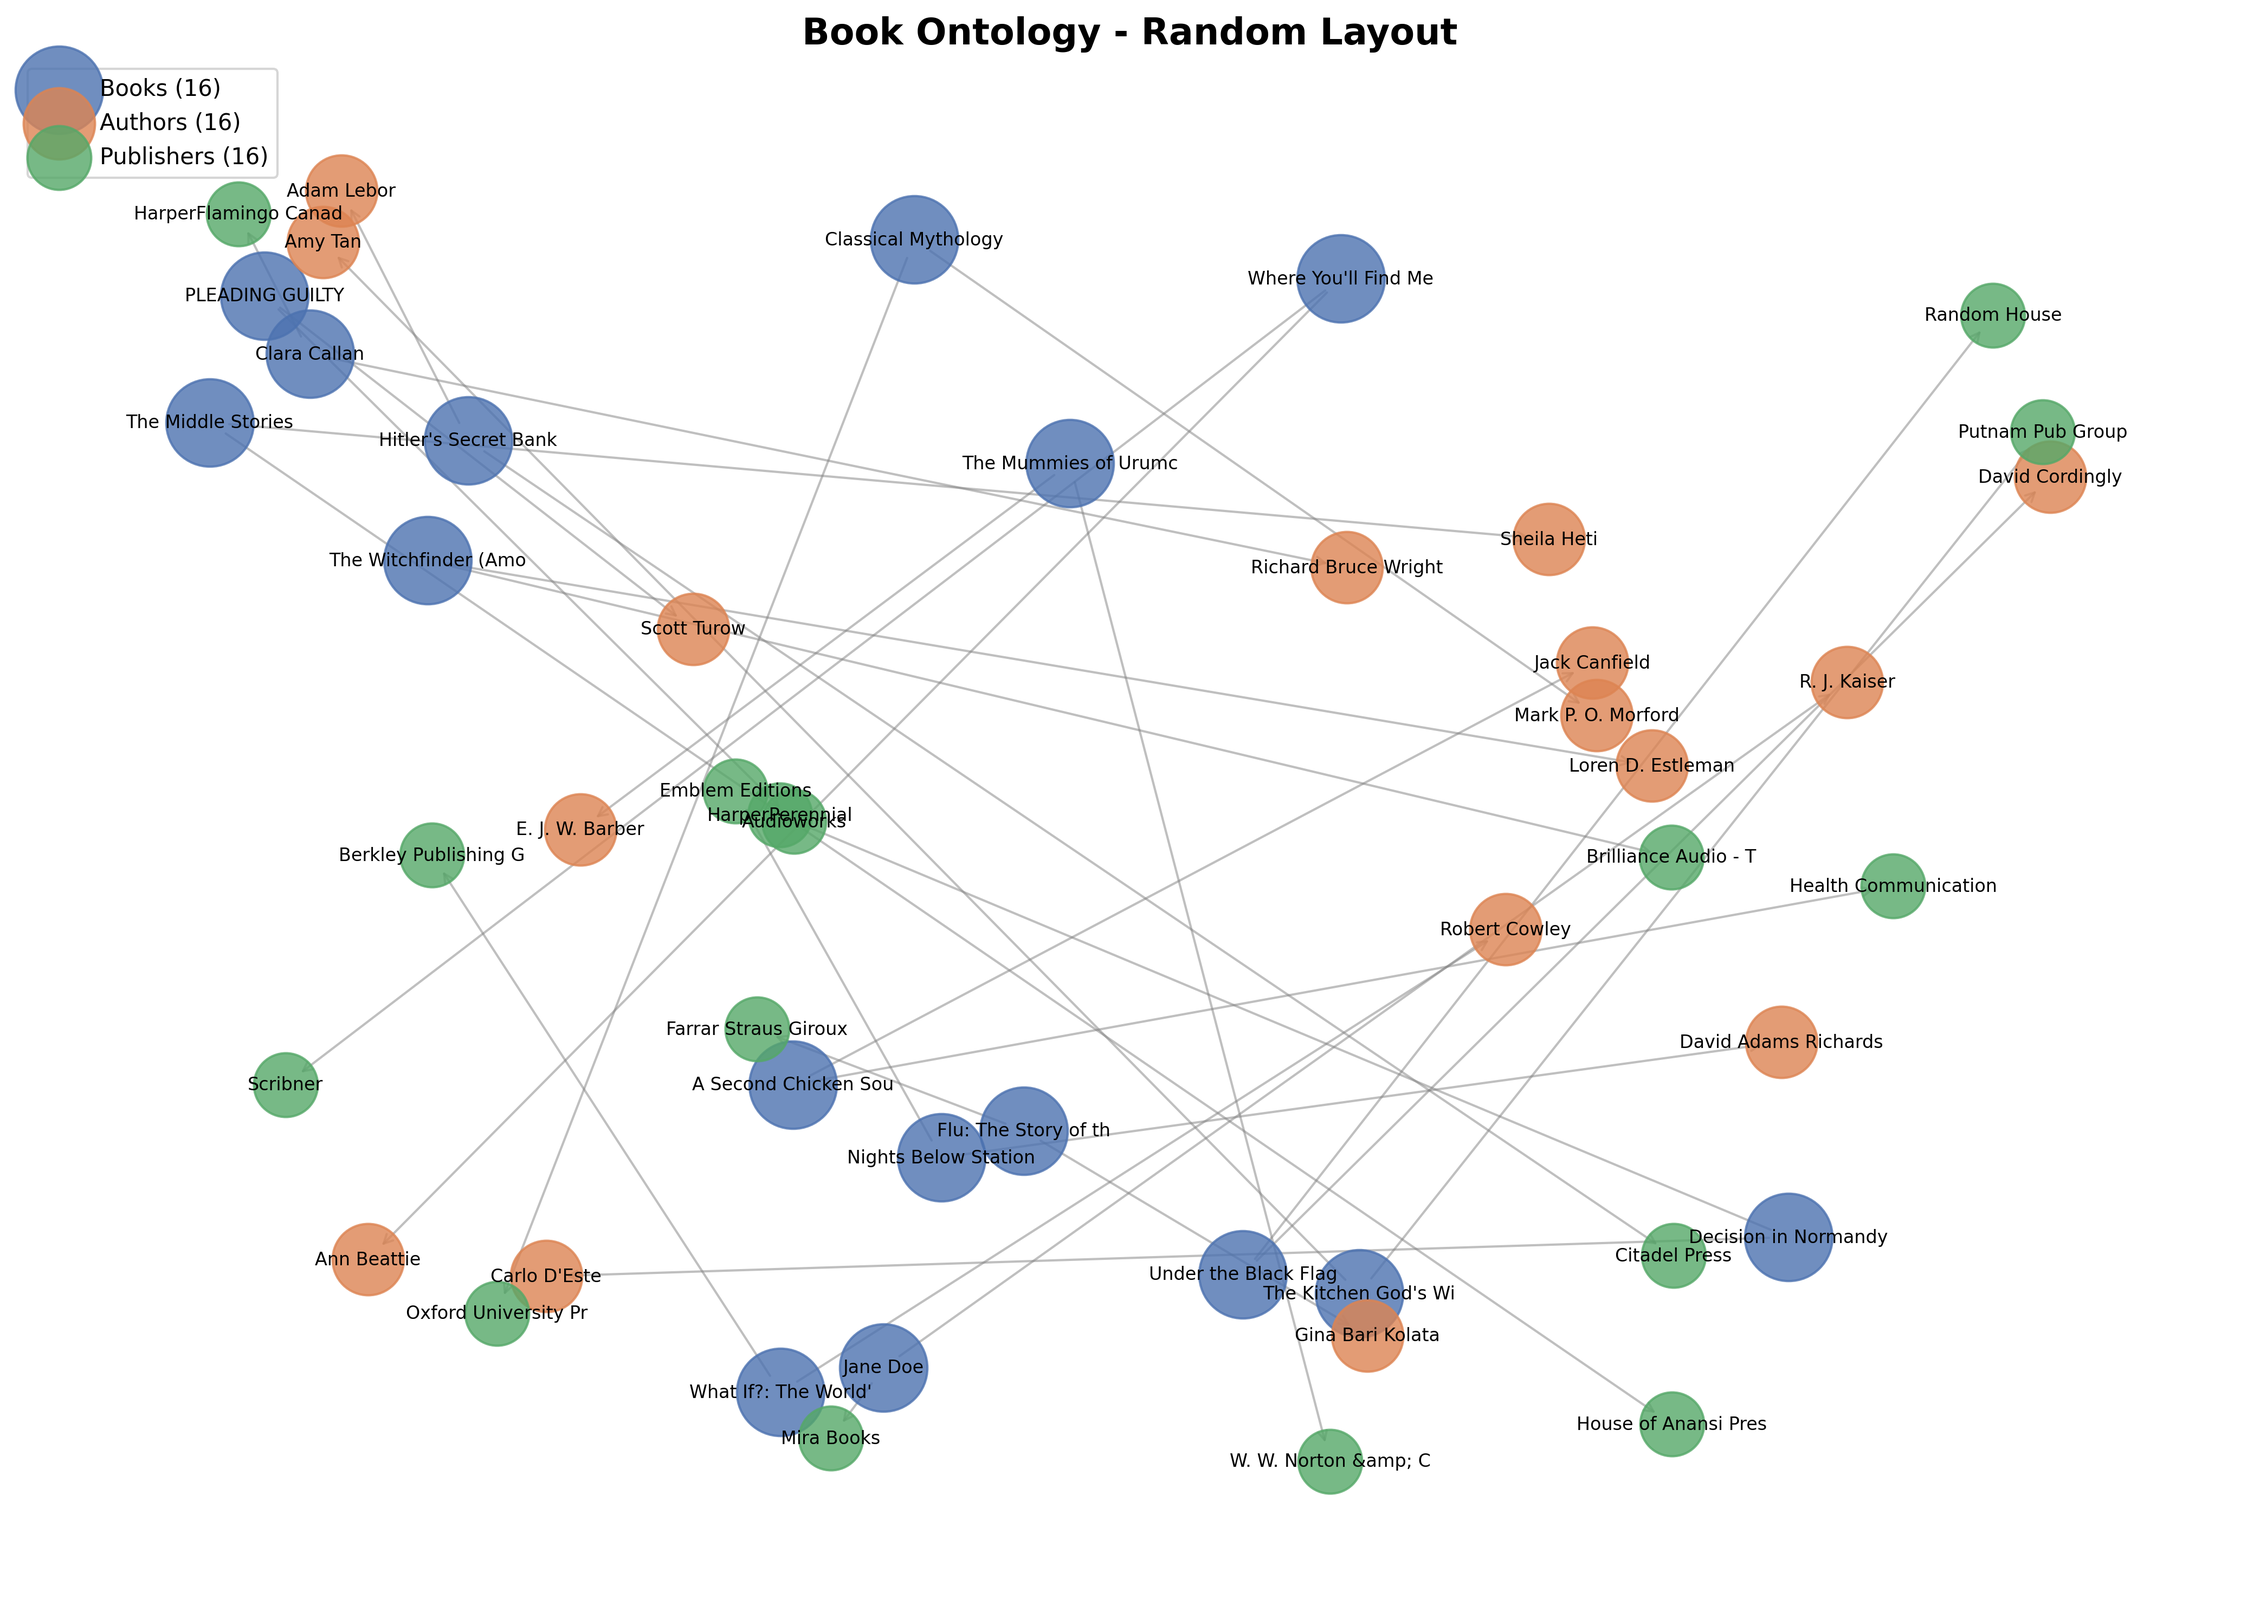
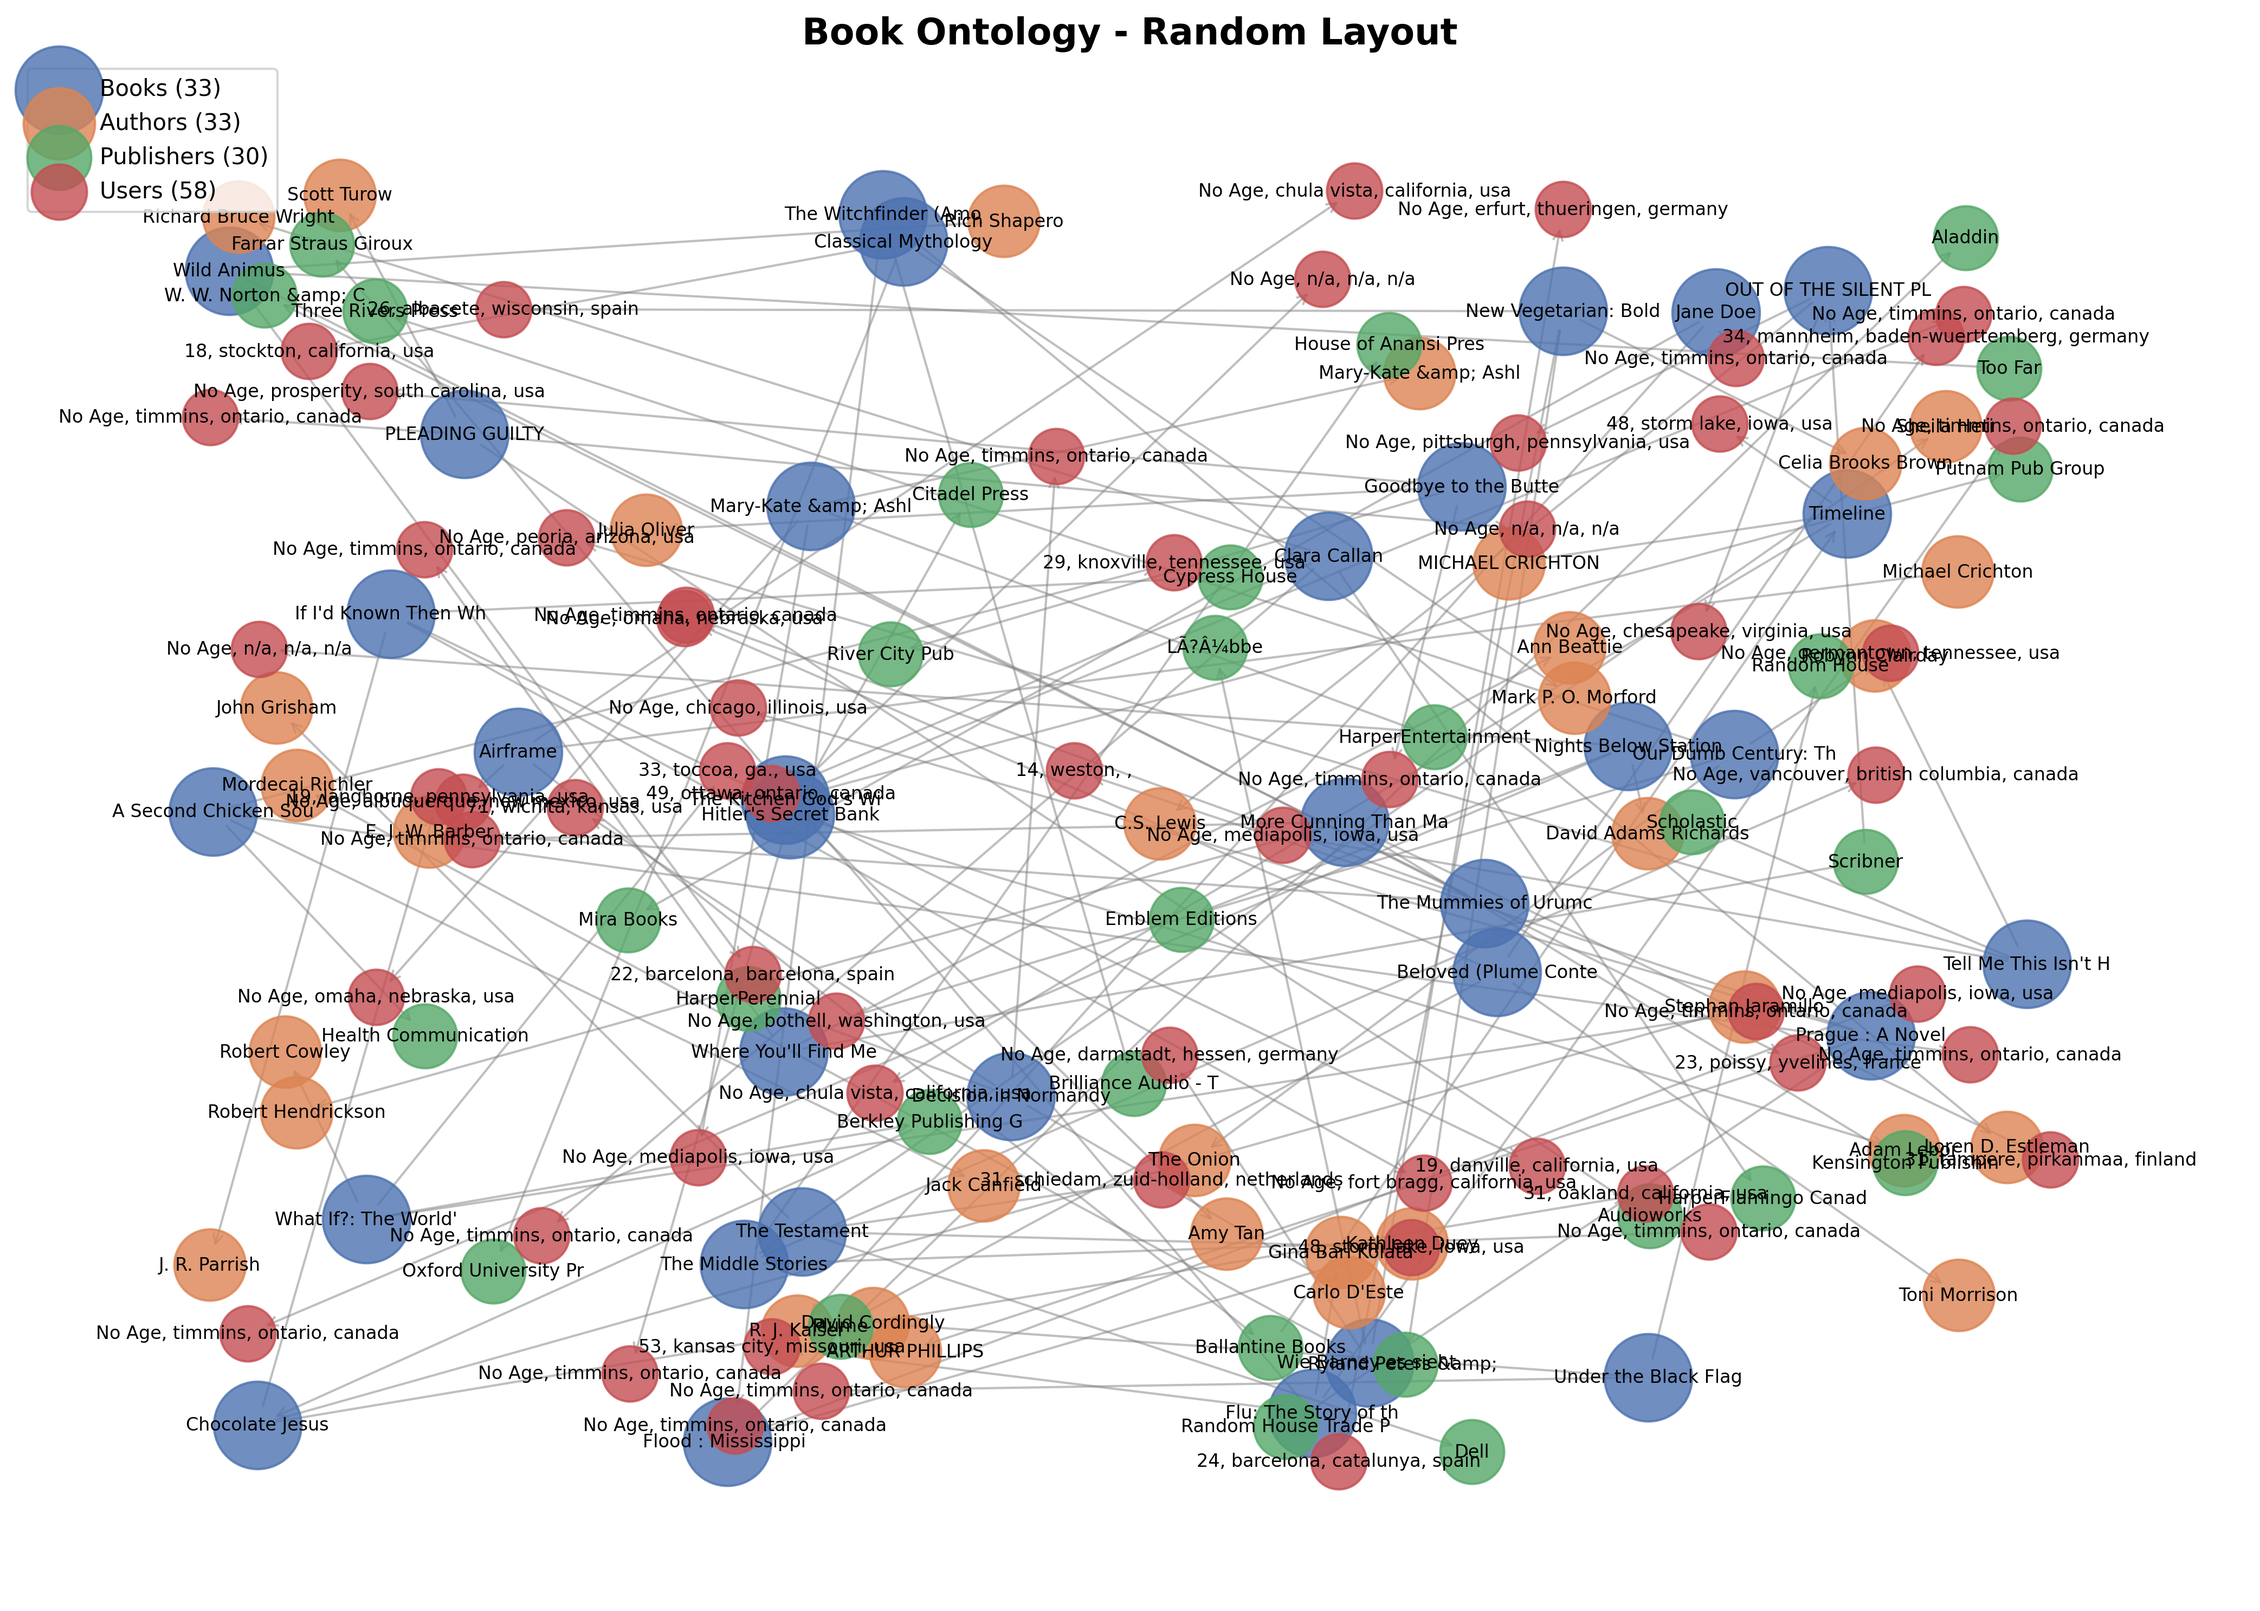
Ontologie example completed

Changed region(s): [[0.0, 0.0928, 0.9353, 0.9284], [0.3429, 0.0928, 0.4676, 0.2166], [0.8417, 0.7736, 0.9041, 0.8355]]

diff --git a/onto/OntologyQuery.py b/onto/OntologyQuery.py
@@ -49,11 +49,12 @@ class OntologyQuery:
         patterns = {
             "type": "?book a onto:Book .",
             "title": "?book onto:book_title ?title .",
-            "author": "?book onto:has_author ?author . ?author onto:author_name ?author_name ."
+            "author": "?book onto:has_author ?author . ?author onto:author_name ?author_name .",
+            "rating": "?book onto:has_review ?review . ?review onto:rating ?rating ."
         }
         
         filters = []
-        select_vars = ["?book", "?title", "?author_name"]
+        select_vars = ["?book", "?title", "?author_name", "?rating"]
         
         # 1. Helper to extract string from Enum or keep as is
         get_val = lambda x: x.value if hasattr(x, 'value') else x
@@ -70,14 +71,12 @@ class OntologyQuery:
                 
             elif f_type == "author":
                 filters.append(f'FILTER(CONTAINS(LCASE(?author_name), LCASE("{value}")))')
-                
             elif f_type == "page_count":
                 patterns["pages"] = "?book onto:page_count ?pages ."
                 filters.append(f"FILTER(?pages {operator} {value})")
-
-            elif f_type == "genre":
-                patterns["genre"] = "?book onto:has_genre ?genre . ?genre onto:genre_name ?g_name ."
-                filters.append(f'FILTER(LCASE(?g_name) = LCASE("{value}"))')
+            elif f_type == "rating":
+                patterns["rating"] = "?review onto:rating ?rating ."
+                filters.append(f"FILTER(?rating {operator} {value})")
 
         # 3. Handle Sorting
         sort_by = get_val(query_intent.get("sort_by", "none"))
@@ -90,6 +89,7 @@ class OntologyQuery:
                 "publication_year": "?year",
                 "page_count": "?pages",
                 "title": "?title",
+                "rating": "?rating",
                 "author_name": "?author_name"
             }
             if sort_by in sort_map:
@@ -174,7 +174,7 @@ class OntologyQuery:
         """Get a clean, safe schema description for LLM prompts"""
         try:
             if not self.onto:
-                return "No ontology loaded."
+                return None
             
             schema_info = []
             
@@ -232,4 +232,4 @@ class OntologyQuery:
             
         except Exception as e:
             logger.error(f"[get_ontology_schema_for_llm] error: {e}")
-            return f"Error: {str(e)}"
+            return None

diff --git a/onto/OntologyVisualizer.py b/onto/OntologyVisualizer.py
@@ -78,11 +78,15 @@ class OntologyVisualizer:
                         relation="published_by"
                     )
             if hasattr(book, 'has_review') and book.has_review:
-                for review in book.has_review:
-                    review_name = review.review_user_id[0] if hasattr(review, "review_user_id") and review.review_user_id else review.name
+                for review in list(book.has_review)[:2]:
+                    review_user = review.reviewed_by[0] if hasattr(review, "reviewed_by") and review.reviewed_by else None
+                    if review_user is None:
+                        continue
+                    review_age = review_user.user_age[0] if hasattr(review_user, "user_age") and review_user.user_age else "No Age"
+                    review_location = review_user.user_location[0] if hasattr(review_user, "user_location") and review_user.user_location else "No location"
                     self.graph.add_node(
                         review.name,
-                        label=review_name[:10],
+                        label=f"{review_age}, {review_location}",
                         tier=3,
                         type="user", 
                         color="orange",

diff --git a/onto/OntologyBuilder.py b/onto/OntologyBuilder.py
@@ -123,6 +123,7 @@ class OntologyBuilder:
 			with self.onto:
 				if ratings.empty:
 					return False
+				user_cache = {}
 				for idx, row in ratings.iterrows():
 					try:
 						isbn = row.get("ISBN")
@@ -132,14 +133,18 @@ class OntologyBuilder:
 							book_id = self.create_book_id(isbn)
 							random_str_id = self.generate_random_string(6)
 							review_id = f'review_{random_str_id}-{review_user_id}'
-							book = self.onto.Book(str(book_id)) 
 							user = self.onto.User(f'user_{review_user_id}')
+							
+							if review_user_id not in user_cache:
+								user_cache[review_user_id] = user
+							
+							book = self.onto.Book(str(book_id)) 
+							
 							review = self.onto.Review(review_id)
 							review.rating = [int(rating)]
 							review.review_user_id = [str(review_user_id)]
-							review.reviewed_by = [user]
-							# Since there is a posiblity of habing variouse user reviewing the same book
-							# Need to check if there are any review present to append and set equal to.
+							review.reviewed_by = [user_cache[review_user_id]]
+
 							if book.has_review and len(book.has_review) > 0:
 								current_list = list(book.has_review)
 								current_list.append(review)

diff --git a/llm/validation.py b/llm/validation.py
@@ -30,6 +30,7 @@ class FilterType(str, Enum):
     SETTING = "setting"
     LANGUAGE = "language"
     ISBN = "isbn"
+    NONE ="none"
 
 class SortByType(str, Enum):
     TITLE = "title"
@@ -70,7 +71,7 @@ class QueryFilter(BaseModel):
 # Main query intent model
 class QueryIntent(BaseModel):
     query_type: QueryType = Field(QueryType.SEARCH_BOOKS, description="Type of query to execute")
-    filters: List[QueryFilter] = Field(default_factory=list, description="List of filters to apply")
+    filters: List[QueryFilter] = Field(FilterType.NONE, description="List of filters to apply")
     sort_by: Optional[SortByType] = Field(SortByType.NONE, description="Field to sort results by")
     sort_order: SortOrderType = Field(SortOrderType.DESC, description="Sort order (ascending/descending)")
     limit: int = Field(20, ge=1, le=100, description="Maximum number of results to return")

diff --git a/onto/OntologyService.py b/onto/OntologyService.py
@@ -27,8 +27,9 @@ class OntologyService:
             if not self.ontology_query_tool:
                 raise Exception("Query tool not loaded, required for nlp.")
         
-            ## logger.info(f"NLP prompt: {self.ontology_query_tool.get_ontology_schema_for_llm()}")
             query_prompt = self.ontology_query_tool.get_ontology_schema_for_llm()
+            if query_prompt is None:
+                raise Exception("No query prompt ready to feed into llm.")
 
             prompt_config = PromptConfig(
                 template_name="BooksTemplate",
@@ -52,7 +53,6 @@ class OntologyService:
 
             logger.info(f"_build_sparql_from_intent results: {query}")
 
-            
             result = self.ontology_query_tool._execute_sparql(query)
 
             logger.info(f"Result:  {result}")

diff --git a/main.py b/main.py
@@ -57,8 +57,6 @@ def main():
 			logger.info(f"[MAIN] Ontology WORLD: {id(onto_builder.onto.world)}")
 			interactive_menu(onto_builder.onto)
 			return
-		else:
-			return
 		""" Create data into ontology, sample size of 200 just for performance """
 		is_created = onto_builder.create_ontology_from_book_data(books)
 		if not is_created:

diff --git a/README.md b/README.md
@@ -66,12 +66,15 @@ Type Safety: Pydantic validation for all query intents and responses
 
 # A few examples of the ontology loaded. 
 
+Interactive shell to view options available, create graphs with max_node amount or natural query.
+![Shell](shell.png)
+
 50 nodes max, full dataset ontology.
 Note the various reviews for books.
-![Ontology preview](ontology_graph_basic.png)
+![Ontology random](ontology_graph_random.png)
 
 Full ontology, with 50 nodes
 ![Ontology preview](ontology_graph_kamada.png)
 
 Sample size of about 50 nodes
-![Ontology preview](assets/images/onto_preview.png)
+![Ontology preview](ontology_graph_spring.png)
